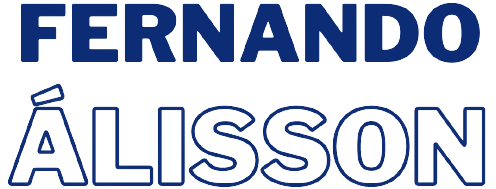
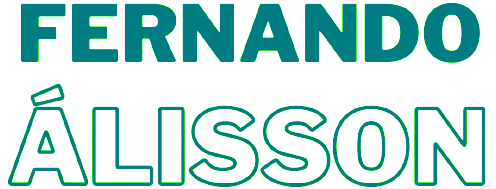
Ajeitando a Semântica da Página

Changed region(s): [[0.0, 0.4497, 0.998, 1.0], [0.0302, 0.0, 0.9677, 0.3439]]

diff --git a/style.css b/style.css
@@ -1,63 +1,102 @@
+
+/* --------------------------------------Corpo------------------------------------*/
 body{
-    background-color: rgb(17, 12, 12);
+    background-color: rgb(0, 0, 0);
     font-family: 'Montserrat', sans-serif;
-    color: white;
+    color: #257c85;
     font-size: 16px;
+    width: 100%;
+    height: 100%;
 }
+
+/* --------------------------------------Navegação (header)------------------------------------*/
 
 #header{
     position: fixed;
     width: 100%;
-    height: 50px;
-    border-bottom: solid 2px white;
-    background-color: rgb(34, 29, 29);
-    display: inline-block;
+    border-bottom: solid 2px #257c85;
+    background-color: rgb(0, 0, 0);
     top: 0px;
     display: flex;
     align-items: center;
- 
+   
 }
+/* --------------------------------------Navegação (header)------------------------------------*/
 
 #spaceIcon{
     width: 40%;
     height: 100%;
+    
+
 }
 
-
-#iconHeader{ /* Ícone do cabeçalho*/
+#iconHeader{
     width: 20%;
     padding: 5px 0 5px 80px;
-
-
 }
 
 .buttonsContent {
 
-    width: 40%;
+    width: 60%;
     height: 100%;
     display: flex;
+    right: 0;
+    justify-content: right;
 
 
 }
 
+
+
+
+
+
+
+
+
+
+
+
+
+
+
+
+
+
+
+
+
+
+
 .buttonHome{ /* Botões de navegação */ 
     text-decoration: none;
     width: 120px;
-    border: 2px solid rgb(255, 255, 255);
+    border: 2px solid #257c85;
     border-radius: 5px 2px 5px 2px;
     display: inline-block;
     text-align: center;
     padding: 5px;
     margin: 10px;
     font-size: 12px;
-    transition: all 0.5s;
-    color: rgb(255, 255, 255);
+    color: #257c85;
 
 }
+
+.buttonHome:active{
+    font-size: 14px;
+    transition: 1s;
+    text-decoration: underline;
+    background-color: #257c85;
+    color: white;
+    transition: all 0.1ms;
+    
+}
+
 
 .buttonHome:hover{
     font-size: 14px;
     text-decoration: underline;
+    transition: all 0.5s;
     
 }
 
@@ -97,9 +136,9 @@ body{
     margin-right: 50px;
     border-radius: 2px 8px 2px 8px;
     padding: 10px;
-    background-color: azure;
-    color: blue;
-    box-shadow: 2px 2px 4px rgba(43, 5, 255, 0.479);
+    background-color: none;
+    color: #257c85;
+    box-shadow: 2px 2px 4px #257c85;
     transition: all 1s;
 }
 

diff --git a/index.html b/index.html
@@ -1,5 +1,5 @@
 <!DOCTYPE html>
-<html lang="en">
+<html lang="pt-br">
 <head>
     <meta charset="UTF-8">
     <meta http-equiv="X-UA-Compatible" content="IE=edge">
@@ -7,17 +7,16 @@
     <link rel="stylesheet" href="https://meyerweb.com/eric/tools/css/reset/reset.css">
     <link rel="stylesheet" href="/style.css">
     <link href="https://fonts.googleapis.com/css2?family=Montserrat:ital,wght@0,100;0,200;0,300;0,400;0,500;0,600;0,700;0,800;0,900;1,100;1,200;1,300;1,400;1,500;1,600;1,700;1,800;1,900&display=swap" rel="stylesheet">
-
     <title>Portifólio Web</title>
 </head>
     <body>
-        <div id="header">
-            <div id="spaceIcon">
+        <nav id="header">
+            <section id="spaceIcon">
                 <a href="#"><img id="iconHeader" src="/iconHome.png" alt="Foto com o nome 'Fernando Álisson'"></a>
-            </div>
+            </section>
 
-            <div class="buttonsContent"></div>
-                <div >
+            <section class="buttonsContent">
+                <div>
                     <a class="buttonHome" href="#">Home</a>
                 </div>
                 <div >
@@ -26,12 +25,12 @@
                 <div >
                     <a class="buttonHome" href="#">GitHub</a>
                 </div>
-            </div>
-        </div>
+            </section>
+        </nav>
 
-        <div id="homeConttent">
+        <main id="homeConttent">
 
-            <div id="portfFernando">
+            <section id="portfFernando">
 
                 <div id="nomePort">
                     <h1>Portifólio de Fernando</h1>
@@ -40,16 +39,16 @@
                 <div id="buttonPort">
                     <a class="buttonPort" href="#">Acessar Meus Projetos</a>
                 </div>
-            </div>
+            </section>
 
-            <div id="photoHome">
+            <section id="photoHome">
                 <img src="/photoHome.png" alt="Foto do Autor da página - Fernando Álisson">
-            </div>
-        </div>
+            </section>
+        </main>
+
         <footer id="footer">
             <h5>Todos os Direitos Reservados</h5>
         </footer>
-        
     </body>
 
 </html>
